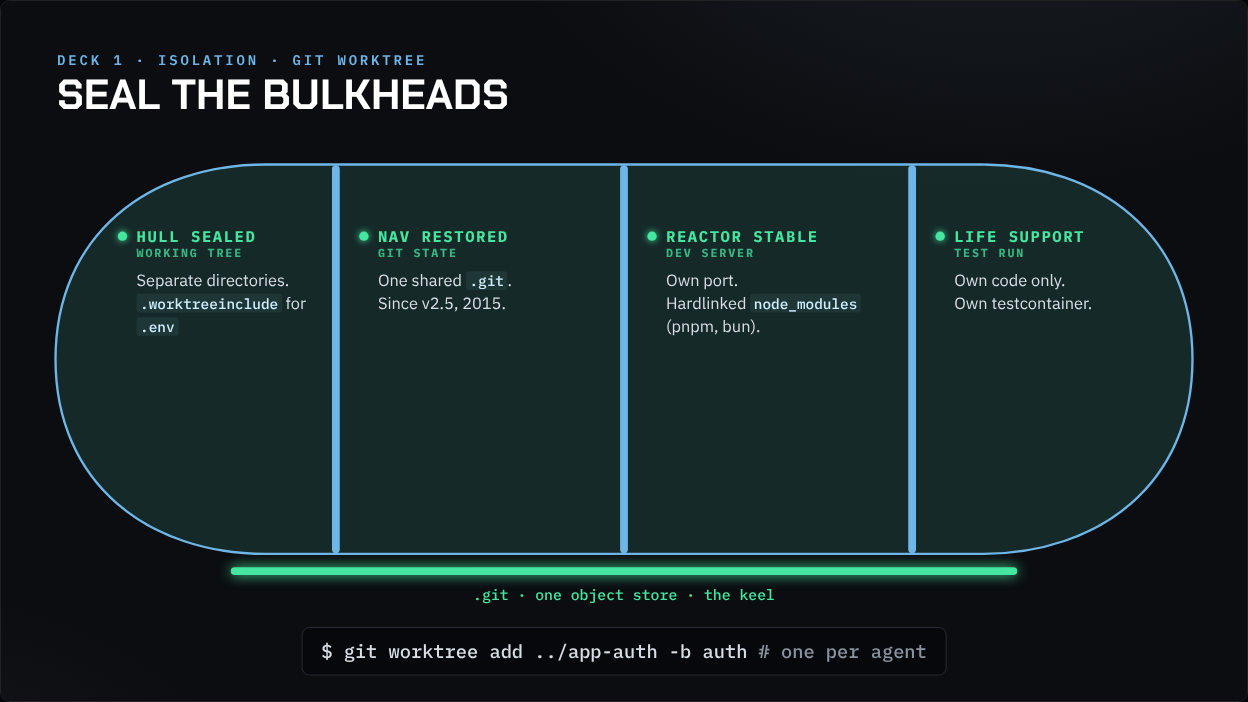
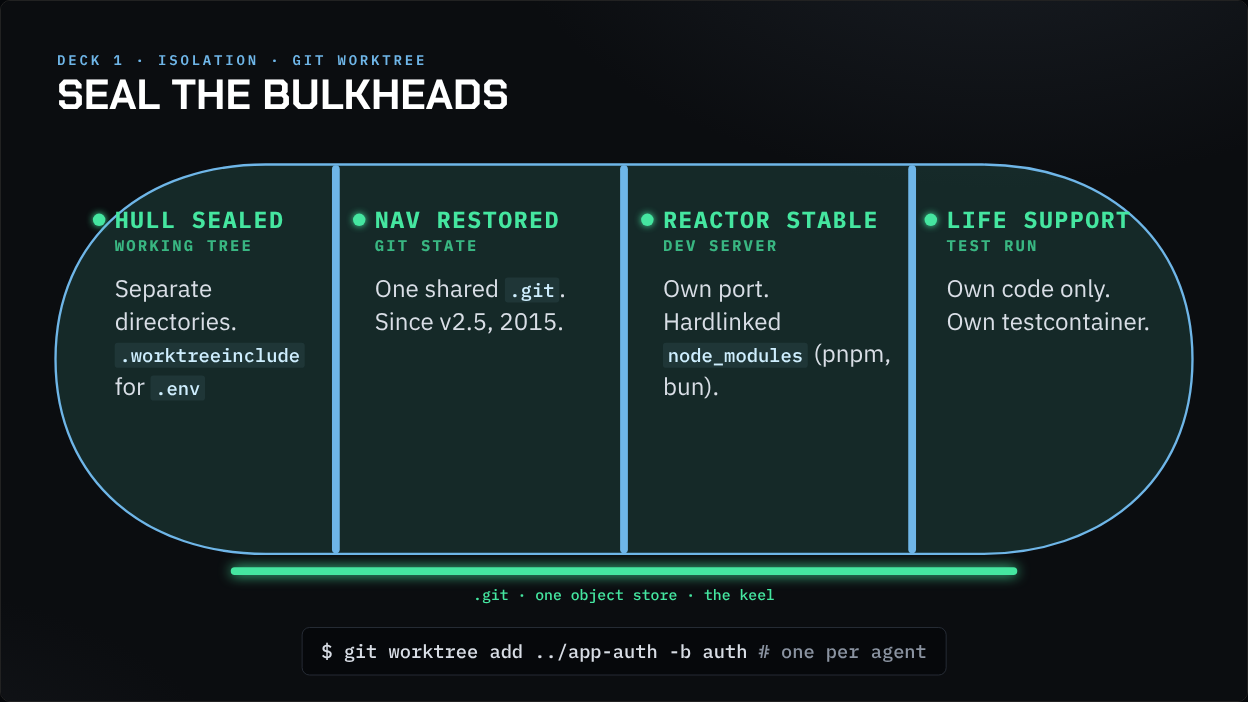
Mockups: git worktree hull, bigger section text
Claude-Session: https://claude.ai/code/session_018ZYY6zXuoUizwuEpUPVPJu

diff --git a/mockups/worktrees-hull.html b/mockups/worktrees-hull.html
@@ -44,12 +44,12 @@ svg.hullsvg { position: absolute; left: 0; top: -40px; }
 .spark { stroke: var(--alien); stroke-width: 3; fill: none; }
 .mono { font: 500 20px var(--mono); }
 
-.sec { position: absolute; top: 290px; z-index: 2; }
-.sec .t { font: 700 20px/1.25 var(--mono); letter-spacing: .1em; text-transform: uppercase; display: flex; gap: 12px; }
-.sec .t i { width: 12px; height: 12px; border-radius: 50%; flex: none; margin-top: 6px; }
-.sec .t small { display: block; font-size: 15px; letter-spacing: .16em; opacity: .75; }
-.sec .d { font: 400 21px/1.4 var(--sans); color: var(--ink); margin: 10px 0 0 24px; }
-.sec .d code { font: 500 .88em var(--mono); color: var(--frost); background: rgba(159,216,240,.08); padding: 0 .25em; border-radius: 4px; }
+.sec { position: absolute; top: 262px; z-index: 2; }
+.sec .t { font: 700 30px/1.2 var(--mono); letter-spacing: .06em; text-transform: uppercase; display: flex; gap: 12px; }
+.sec .t i { width: 16px; height: 16px; border-radius: 50%; flex: none; margin-top: 11px; }
+.sec .t small { display: block; font-size: 20px; letter-spacing: .14em; opacity: .75; margin-top: 4px; }
+.sec .d { font: 400 31px/1.35 var(--sans); color: var(--ink); margin: 22px 0 0 28px; }
+.sec .d code { font: 500 .78em var(--mono); color: var(--frost); background: rgba(159,216,240,.08); padding: 0 .25em; border-radius: 4px; }
 .sec .was { font: 400 17px/1.35 var(--sans); color: var(--muted); margin: 8px 0 0 24px; text-decoration: line-through; text-decoration-color: rgba(255,59,92,.6); }
 .bad .sec .t { color: var(--alien); } .bad .sec .t i { background: var(--alien); box-shadow: 0 0 10px var(--alien); animation: blink 1s steps(2) infinite; }
 .good .sec .t { color: var(--alien); transition: color .45s; } .good .sec .t i { background: var(--alien); transition: background .45s, box-shadow .45s; }
@@ -99,13 +99,13 @@ svg.hullsvg { position: absolute; left: 0; top: -40px; }
     </g>
     <path class="hull" d="M70 500 C 70 340, 190 250, 340 250 H 1260 C 1410 250, 1530 340, 1530 500 C 1530 660, 1410 750, 1260 750 H 340 C 190 750, 70 660, 70 500 Z"/>
     <line class="open" x1="430" y1="256" x2="430" y2="744"/><line class="open" x1="800" y1="256" x2="800" y2="744"/><line class="open" x1="1170" y1="256" x2="1170" y2="744"/>
-    <circle class="ag ag1" cx="400" cy="640" r="24"/><circle class="ag ag2" cx="790" cy="660" r="24"/><circle class="ag ag3" cx="1180" cy="630" r="24"/>
-    <g data-s="1"><path class="spark" d="M450 630 l14 8 l-4 -18 l14 14 l2 -16 l8 18"/><path class="spark" d="M840 650 l12 8 l-2 -16 l12 12 l4 -14 l4 16"/></g>
+    <circle class="ag ag1" cx="400" cy="700" r="24"/><circle class="ag ag2" cx="800" cy="712" r="24"/><circle class="ag ag3" cx="1180" cy="698" r="24"/>
+    <g data-s="1"><path class="spark" d="M450 690 l14 8 l-4 -18 l14 14 l2 -16 l8 18"/><path class="spark" d="M850 702 l12 8 l-2 -16 l12 12 l4 -14 l4 16"/></g>
   </svg>
-  <div class="sec" data-s="1" style="left:150px;width:260px"><div class="t"><i></i><span>Hull breach<small>working tree</small></span></div><div class="d">Two agents, one file. Last write wins.</div></div>
-  <div class="sec" data-s="2" style="left:460px;width:320px"><div class="t"><i></i><span>Nav failure<small>git state</small></span></div><div class="d">Checkout moves. Commit steals. Stash vanishes.</div></div>
-  <div class="sec" data-s="3" style="left:830px;width:320px"><div class="t"><i></i><span>Reactor unstable<small>dev server</small></span></div><div class="d">It rebuilds &amp; reloads all the time.</div></div>
-  <div class="sec" data-s="4" style="left:1200px;width:270px"><div class="t"><i></i><span>Life support<small>test run</small></span></div><div class="d">Red, from the other agent's in-progress work.</div></div>
+  <div class="sec" data-s="1" style="left:118px;width:300px"><div class="t"><i></i><span>Hull breach<small>working tree</small></span></div><div class="d">Two agents, one file. Last write wins.</div></div>
+  <div class="sec" data-s="2" style="left:452px;width:335px"><div class="t"><i></i><span>Nav failure<small>git state</small></span></div><div class="d">Checkout moves. Commit steals. Stash vanishes.</div></div>
+  <div class="sec" data-s="3" style="left:822px;width:335px"><div class="t"><i></i><span>Reactor unstable<small>dev server</small></span></div><div class="d">It rebuilds &amp; reloads all the time.</div></div>
+  <div class="sec" data-s="4" style="left:1186px;width:300px"><div class="t"><i></i><span>Life support<small>test run</small></span></div><div class="d">Red, from the other agent's in-progress work.</div></div>
   <div class="bar bottom" data-s="5"><span>⚠ ALL AGENTS · ONE COMPARTMENT</span><span>⚠ ALL AGENTS · ONE COMPARTMENT</span><span>⚠ ALL AGENTS · ONE COMPARTMENT</span></div>
 </div></div>
 <div class="ctl"><button data-act="prev">←</button><button data-act="next">→</button><button data-act="reset">reset</button><span class="st"></span></div>
@@ -126,10 +126,10 @@ svg.hullsvg { position: absolute; left: 0; top: -40px; }
     <g data-s="2"><line class="keel" x1="300" y1="772" x2="1300" y2="772"/></g>
   </svg>
   <div class="keeltag" data-s="2">.git · one object store · the keel</div>
-  <div class="sec" data-z="1" style="left:150px;width:260px"><div class="t"><i></i><span>Hull sealed<small>working tree</small></span></div><div class="d">Separate directories.<br><code>.worktreeinclude</code> for <code>.env</code></div></div>
-  <div class="sec" data-z="2" style="left:460px;width:320px"><div class="t"><i></i><span>Nav restored<small>git state</small></span></div><div class="d">One shared <code>.git</code>.<br>Since v2.5, 2015.</div></div>
-  <div class="sec" data-z="3" style="left:830px;width:320px"><div class="t"><i></i><span>Reactor stable<small>dev server</small></span></div><div class="d">Own port.<br>Hardlinked <code>node_modules</code> (pnpm, bun).</div></div>
-  <div class="sec" data-z="4" style="left:1200px;width:270px"><div class="t"><i></i><span>Life support<small>test run</small></span></div><div class="d">Own code only.<br>Own testcontainer.</div></div>
+  <div class="sec" data-z="1" style="left:118px;width:300px"><div class="t"><i></i><span>Hull sealed<small>working tree</small></span></div><div class="d">Separate directories.<br><code>.worktreeinclude</code> for <code>.env</code></div></div>
+  <div class="sec" data-z="2" style="left:452px;width:335px"><div class="t"><i></i><span>Nav restored<small>git state</small></span></div><div class="d">One shared <code>.git</code>.<br>Since v2.5, 2015.</div></div>
+  <div class="sec" data-z="3" style="left:822px;width:335px"><div class="t"><i></i><span>Reactor stable<small>dev server</small></span></div><div class="d">Own port.<br>Hardlinked <code>node_modules</code> (pnpm, bun).</div></div>
+  <div class="sec" data-z="4" style="left:1186px;width:300px"><div class="t"><i></i><span>Life support<small>test run</small></span></div><div class="d">Own code only.<br>Own testcontainer.</div></div>
   <div class="cmd" data-s="5">$ git worktree add ../app-auth -b auth   <span># one per agent</span></div>
 </div></div>
 <div class="ctl"><button data-act="prev">←</button><button data-act="next">→</button><button data-act="reset">reset</button><span class="st"></span></div>
